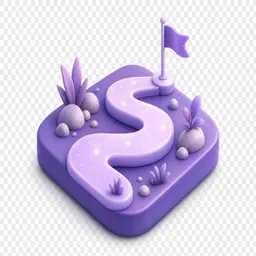
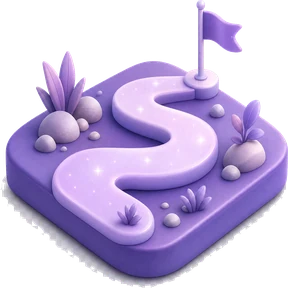
Fix welcome hero transparency and breathing room.
Strip checkerboard backgrounds from dashboard art, loosen the greeting card layout, and keep only optimized WebP assets.

diff --git a/src/index.css b/src/index.css
@@ -862,6 +862,7 @@ html.tg-mini-app .btn-ghost:active {
 }
 
 .pts-dashboard-welcome {
+  padding: 1.45rem 1.35rem 1.4rem;
   background: linear-gradient(
     160deg,
     rgba(252, 248, 255, 0.98) 0%,
@@ -873,21 +874,21 @@ html.tg-mini-app .btn-ghost:active {
 
 .pts-welcome-hero {
   display: grid;
-  grid-template-columns: minmax(0, 1fr) 7.5rem;
-  column-gap: 0.5rem;
-  row-gap: 0.65rem;
+  grid-template-columns: minmax(0, 1fr) 8.75rem;
+  column-gap: 1rem;
+  row-gap: 0.8rem;
   align-items: start;
-  margin-bottom: 1.25rem;
+  margin-bottom: 1.5rem;
 }
 
 .pts-welcome-fingerprint {
   grid-column: 1;
   grid-row: 1;
   display: block;
-  width: 2rem;
-  height: 2rem;
-  min-width: 2rem;
-  min-height: 2rem;
+  width: 2.25rem;
+  height: 2.25rem;
+  min-width: 2.25rem;
+  min-height: 2.25rem;
   object-fit: contain;
   pointer-events: none;
   user-select: none;
@@ -897,14 +898,18 @@ html.tg-mini-app .btn-ghost:active {
   grid-column: 1;
   grid-row: 2;
   margin: 0;
+  font-size: 1.3125rem;
+  line-height: 1.28;
 }
 
 .pts-welcome-hero__text {
   grid-column: 1;
   grid-row: 3;
   margin: 0;
-  max-width: 17.5rem;
-  padding-right: 0.25rem;
+  max-width: none;
+  padding-right: 0.5rem;
+  font-size: 0.95rem;
+  line-height: 1.55;
 }
 
 .pts-welcome-hero__art {
@@ -912,11 +917,11 @@ html.tg-mini-app .btn-ghost:active {
   grid-row: 1 / span 3;
   align-self: center;
   justify-self: end;
-  width: 7.5rem;
-  min-width: 7.5rem;
+  width: 8.75rem;
+  min-width: 8.75rem;
   height: auto;
-  margin-top: -0.1rem;
-  margin-right: -0.15rem;
+  margin-top: 0;
+  margin-right: 0;
   object-fit: contain;
   pointer-events: none;
   user-select: none;
@@ -925,12 +930,14 @@ html.tg-mini-app .btn-ghost:active {
 
 @media (min-width: 380px) {
   .pts-welcome-hero {
-    grid-template-columns: minmax(0, 1fr) 8.25rem;
-    row-gap: 0.7rem;
+    grid-template-columns: minmax(0, 1fr) 9.5rem;
+    column-gap: 1.1rem;
+    row-gap: 0.85rem;
   }
 
   .pts-welcome-hero__art {
-    width: 8.25rem;
+    width: 9.5rem;
+    min-width: 9.5rem;
   }
 }
 

diff --git a/src/components/dashboard/WelcomeHeroVisuals.tsx b/src/components/dashboard/WelcomeHeroVisuals.tsx
@@ -7,8 +7,8 @@ export function WelcomeFingerprintBadge() {
       src={fingerprintBadge}
       alt=""
       className="pts-welcome-fingerprint"
-      width={32}
-      height={32}
+      width={36}
+      height={36}
       decoding="async"
       loading="eager"
       fetchPriority="high"
@@ -22,8 +22,8 @@ export function WelcomePathJourneyArt() {
       src={pathJourneyArt}
       alt=""
       className="pts-welcome-hero__art"
-      width={120}
-      height={120}
+      width={136}
+      height={136}
       decoding="async"
       loading="eager"
     />

diff --git a/src/screens/Dashboard.tsx b/src/screens/Dashboard.tsx
@@ -356,10 +356,10 @@ export function Dashboard({ onOpenCatalog, onOpenHistory }: DashboardProps) {
         <PremiumCard accent="coral" delay={0.04} className="pts-dashboard-welcome">
           <div className="pts-welcome-hero">
             <WelcomeFingerprintBadge />
-            <h2 className="pts-welcome-hero__title font-display text-xl font-bold text-[var(--color-text-primary)] tracking-tight leading-snug">
+            <h2 className="pts-welcome-hero__title font-display font-bold text-[var(--color-text-primary)] tracking-tight">
               Привет, {userName} 👋
             </h2>
-            <p className="pts-welcome-hero__text text-[15px] text-[var(--color-text-secondary)] leading-relaxed">
+            <p className="pts-welcome-hero__text text-[var(--color-text-secondary)]">
               Это основной продукт «Путь к себе»: начни бесплатно и двигайся в своём темпе.
             </p>
             <WelcomePathJourneyArt />